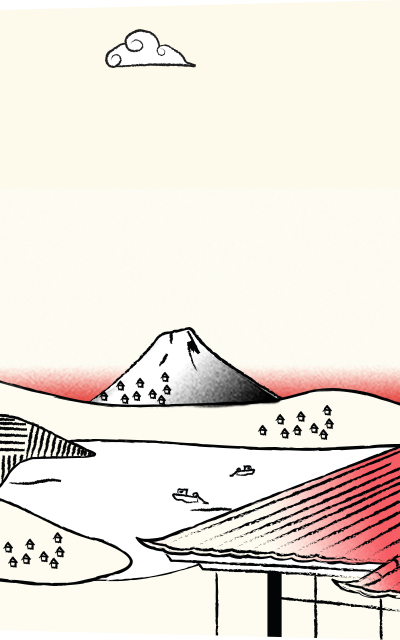
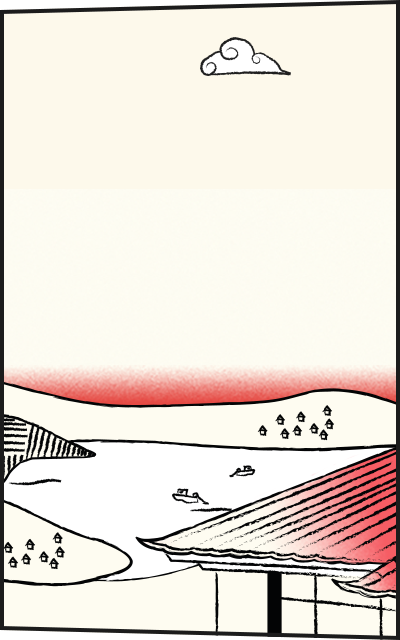
wip integration homepage

diff --git a/components/ui/Homepage.vue b/components/ui/Homepage.vue
@@ -1,8 +1,9 @@
 <template>
   <div class="frame" id="homepage">
     <div id="left">
-      <div id="test">
+      <div id="container">
         <div id="background-landscape"></div>
+        <div id="background-landscape-clone"></div>
       </div>
       <div id="title-text">
         <p class="fill-en skew">The legend of</p>
@@ -77,7 +78,7 @@ export default {
     width: 60%;
     position: relative;
     // background: red;
-    #test {
+    #container {
       position: relative;
       width: 100%;
       height: 100%;
@@ -89,7 +90,7 @@ export default {
         position: absolute;
         width: inherit;
         height: 90%;
-        background: url("~static/ui/homepage/homepage_fond_contour.png");
+        background: url("~static/ui/homepage/homepage_fond.png");
         background-size: contain;
         background-position: center;
         background-repeat: no-repeat;
@@ -98,8 +99,8 @@ export default {
           content: "";
           position: absolute;
           bottom: 0;
-          width: 134px;
-          height: 255px;
+          width: 160px;
+          height: 305px;
           left: 10%;
           z-index: 3;
           background: url("~static/ui/characters/momo.png");
@@ -110,31 +111,43 @@ export default {
           content: "";
           position: absolute;
           top: 20%;
-          width: 30%;
-          height: 30%;
-          right: -5%;
+          width: 25%;
+          height: 25%;
+          right: 0;
           z-index: 3;
           background: url("~static/ui/characters/romo.png");
           background-size: 100% auto;
           background-repeat: no-repeat;
         }
       }
+      #background-landscape-clone {
+        position: absolute;
+        width: inherit;
+        height: 90%;
+        z-index: 2;
+        background: url("~static/ui/homepage/homepage_fond_fuji.png");
+        background-size: contain;
+        background-position: center;
+        background-repeat: no-repeat;
+        pointer-events: none;
+      }
     }
 
     #title-text {
       position: absolute;
-      top: 0;
-      width: 100%;
+      width: 85%;
       height: inherit;
-      left: 0;
-      display: flex;
+      left: 50%;
       flex-direction: column;
       top: 10%;
+      display: flex;
+      transform: translateX(-50%);
       p {
         align-self: flex-start;
       }
       svg {
-        width: 75%;
+        width: 80%;
+
         &:first-of-type {
           text-align: left;
           align-self: flex-start;
@@ -149,18 +162,23 @@ export default {
   }
   #right {
     width: 40%;
-    // background: yellow;
     display: flex;
     justify-content: center;
     align-items: center;
     #content {
-      max-width: 80%;
+      max-width: 85%;
       text-align: center;
       h5 {
         text-transform: uppercase;
         font-size: 40px;
+        font-family: $Jost-Book;
+
+        span {
+          font-size: 40px;
+          font-family: $Jost-Semi;
+        }
       }
-      svg{
+      svg {
         width: 40%;
       }
     }

diff --git a/assets/scss/_fonts.scss b/assets/scss/_fonts.scss
@@ -142,7 +142,7 @@ $M1-Black : M1Black;
 .fill-en {
     background: black;
     padding: 0 25px;
-    font-family: $Jost-Book;
+    font-family: $Jost-Medium;
     font-size: 30px;
     letter-spacing: 1px;
     text-transform: uppercase;
